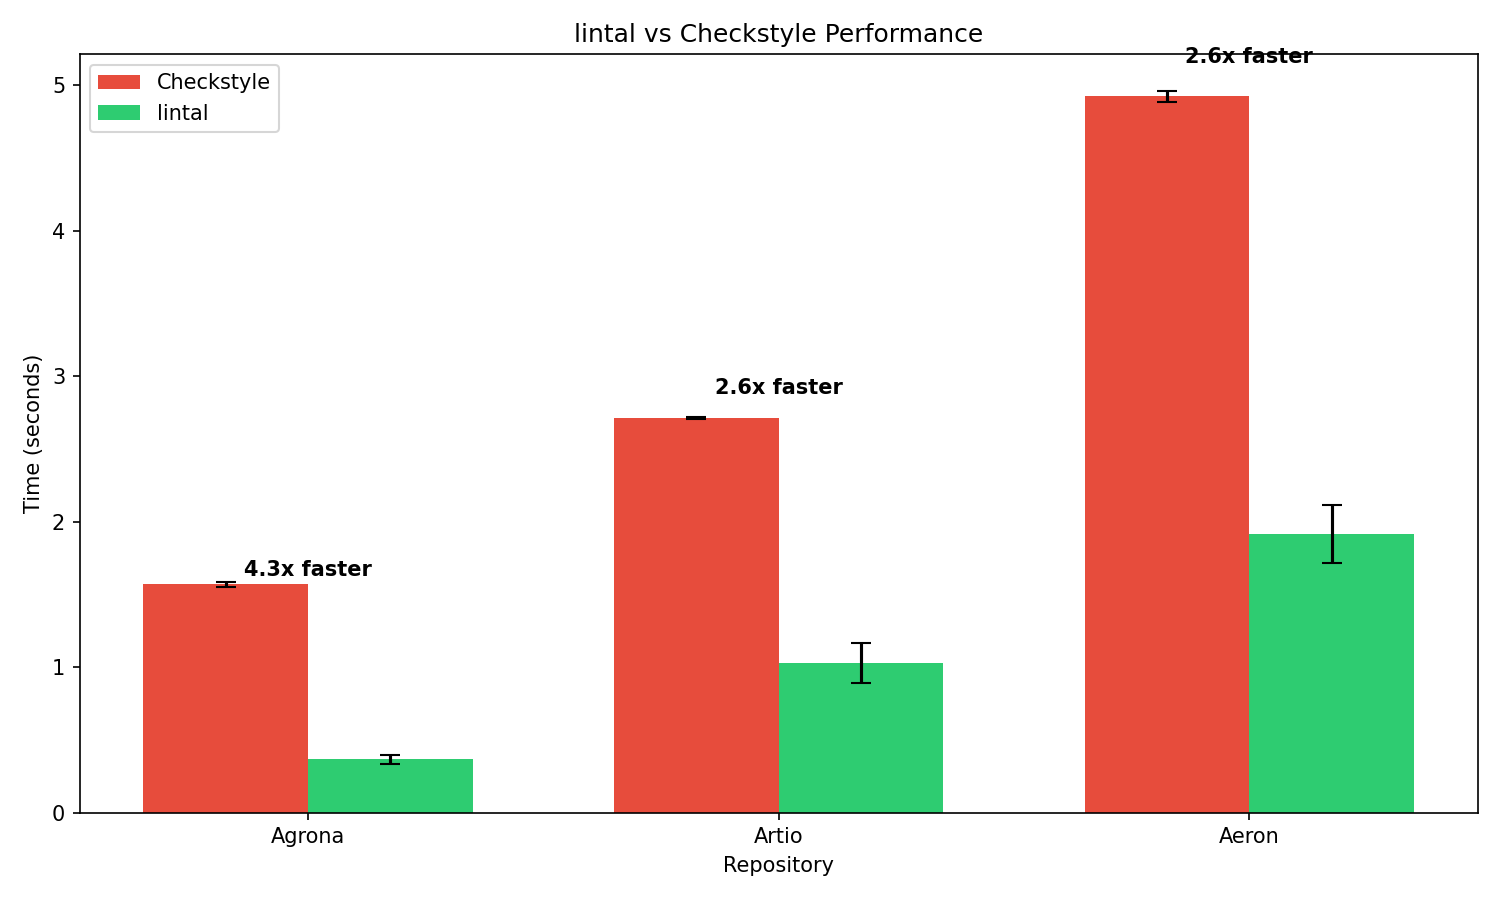
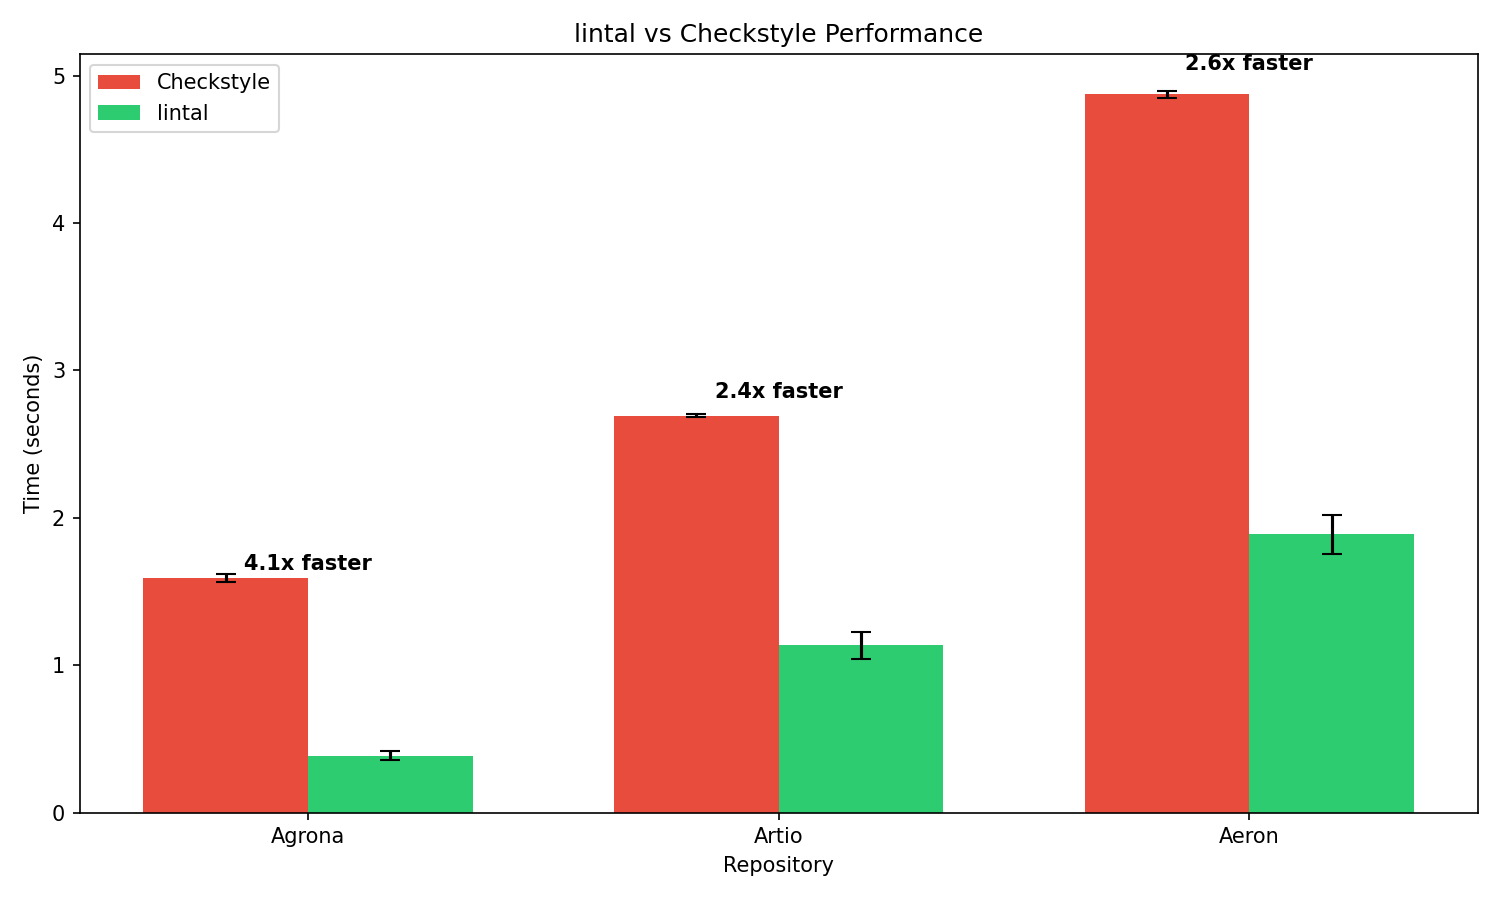
Update Readme with latest performance data

diff --git a/README.md b/README.md
@@ -30,9 +30,9 @@ lintal is significantly faster than checkstyle due to native compilation and par
 
 | Repository | Files | Checkstyle | lintal | Speedup |
 |------------|-------|------------|--------|---------|
-| Agrona | 289 | 1.57s ± 0.02s | 0.37s ± 0.03s | **4.3x** |
-| Artio | 726 | 2.71s ± 0.01s | 1.03s ± 0.14s | **2.6x** |
-| Aeron | 935 | 4.93s ± 0.04s | 1.91s ± 0.20s | **2.6x** |
+| Agrona | 289 | 1.59s ± 0.03s | 0.39s ± 0.03s | **4.1x** |
+| Artio | 726 | 2.69s ± 0.01s | 1.14s ± 0.09s | **2.4x** |
+| Aeron | 935 | 4.88s ± 0.02s | 1.89s ± 0.13s | **2.6x** |
 
 ![Benchmark Results](docs/benchmark_results.png)
 
